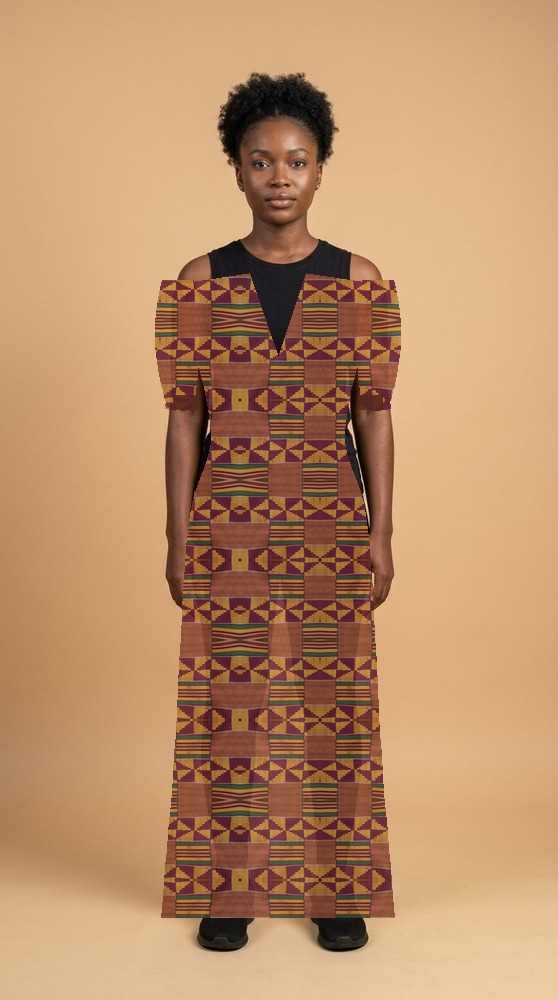
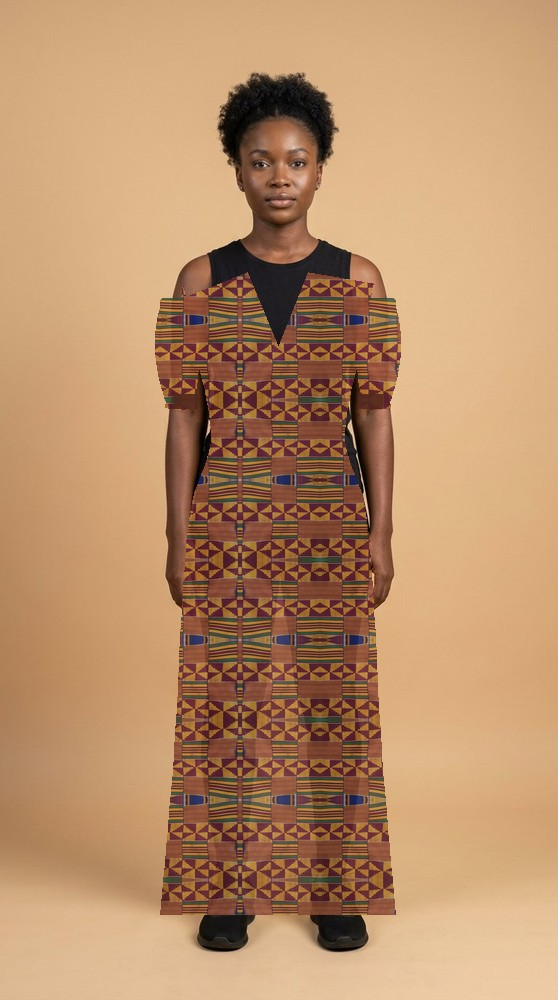
Garment: close the shoulder line, tame the neck opening, rebuild release v1.0.3
- The bodice outline started at the neck edge, so the opening spanned the whole
  shoulder line and the bare photo showed through the shoulders. It now runs shoulder
  tip -> neck edge -> opening -> neck edge -> shoulder tip, with the tip a little below
  the widest point (real cloth droops; a dead-flat line reads as cardboard).
- Sleeve caps start on that same seam, so cap and bodice meet instead of crossing and
  leaving a notch.
- Openings were 2-3 px wide at the old widths (the notch was drawn twice). Every
  neckline now has a real opening: HIGH .24/.014, ROUND .34/.05, V .32/.085, BOAT
  .44/.02, OFF_SHOULDER .50/.03 of the shoulder width.
- Same numbers in vton_local.py; BodyFitTest measures the opening between the neck edges.
- Version 1.0.3 build, docs and proof images refreshed.

Changed region(s): [[0.2742, 0.279, 0.7312, 0.93]]

diff --git a/FabricFit/app/src/main/java/com/fabricfit/app/media/garment/BodyFit.kt b/FabricFit/app/src/main/java/com/fabricfit/app/media/garment/BodyFit.kt
@@ -22,6 +22,12 @@ import kotlin.math.roundToInt
  */
 object BodyFit {
 
+    /**
+     * How far below the widest point the cloth settles on the deltoid: real fabric droops
+     * rather than cutting a perfect horizontal line from the shoulder tip to the neck.
+     */
+    private const val SHOULDER_JOINT_DROP = 0.030f
+
     /** Landmark measurements in source-image pixels. */
     data class Body(
         val top: Float,
@@ -156,19 +162,25 @@ object BodyFit {
         val yHem = top + ph * hemFraction
         val hem = max(hip, thigh) * flare
 
+        // Neck opening as (half-width, dip) relative to the shoulder width and body height.
+        // A neckline that spans most of the shoulder reads as an off-shoulder dress, so the
+        // deep-V and boat styles stay near a third of the shoulder width.
+        // Neck opening as (half-width, dip). It is drawn from the left neck edge across a
+        // notched opening to the right neck edge; below ~0.30 of the shoulder the two edges
+        // end up a few pixels apart and the "opening" disappears.
         val neck = when (customization.neckline) {
-            NecklineOption.VNECK, NecklineOption.V_NECK -> 0.30f to 0.095f
-            NecklineOption.HIGH -> 0.20f to 0.012f
-            NecklineOption.OFF_SHOULDER -> 0.55f to 0.030f
-            NecklineOption.BOAT -> 0.50f to 0.018f
-            NecklineOption.ROUND, NecklineOption.DEFAULT -> 0.32f to 0.060f
+            NecklineOption.VNECK, NecklineOption.V_NECK -> 0.32f to 0.085f
+            NecklineOption.HIGH -> 0.24f to 0.014f
+            NecklineOption.OFF_SHOULDER -> 0.50f to 0.030f
+            NecklineOption.BOAT -> 0.44f to 0.020f
+            NecklineOption.ROUND, NecklineOption.DEFAULT -> 0.34f to 0.050f
         }
         val neckW = shoulder * neck.first
         val neckY = yShoulder + ph * neck.second
 
         val right = smooth(
             listOf(
-                cx + shoulder to yShoulder + ph * 0.012f,
+                cx + shoulder to yShoulder + ph * SHOULDER_JOINT_DROP,
                 cx + bust to yBust,
                 cx + waist to yWaist,
                 cx + hip to yHip,
@@ -179,7 +191,11 @@ object BodyFit {
         val left = right.map { (x, y) -> (2 * cx - x) to y }.reversed()
 
         val outline = ArrayList<Pair<Float, Float>>()
-        outline.add(cx - neckW to yShoulder)
+        // The top edge runs from the left shoulder tip to the left side of the neck. Without
+        // it the neck opening spans the whole shoulder line and leaves the bare photo
+        // visible through the shoulders. (The right side already starts at the tip, so it
+        // needs no extra vertex.)
+        outline.add(cx - shoulder to yShoulder + ph * SHOULDER_JOINT_DROP)
         when (customization.neckline) {
             NecklineOption.VNECK, NecklineOption.V_NECK -> outline.add(cx to neckY)
             else -> {
@@ -206,11 +222,14 @@ object BodyFit {
         if (sleeveDrop != null) {
             val puff = if (customization.sleeve == SleeveOption.PUFF) 0.46f else 0.34f
             val taper = if (customization.sleeve == SleeveOption.PUFF) 0.30f else 0.22f
-            val yTop = yShoulder + ph * 0.008f
+            // The cap starts exactly on the bodice's shoulder seam, so the two outlines meet
+            // instead of crossing: a crossing leaves a visible sliver at the shoulder.
+            val yTop = yShoulder + ph * SHOULDER_JOINT_DROP
             val yBottom = yShoulder + ph * sleeveDrop
             for (side in intArrayOf(-1, 1)) {
                 val sx = cx + side * shoulder * 0.90f
                 val points = ArrayList<Pair<Float, Float>>()
+                points.add(cx + side * shoulder to yTop)
                 val steps = 14
                 for (i in 0..steps) {
                     val t = i.toFloat() / steps
@@ -219,6 +238,8 @@ object BodyFit {
                     val outer = shoulder * (puff * 0.55f + taper * 0.45f * bulge)
                     points.add(sx + side * outer to yTop + (yBottom - yTop) * t)
                 }
+                // Walk back up the armhole to the shoulder seam and close there, so the cap
+                // overlaps the bodice instead of leaving a notch at the shoulder joint.
                 for (i in 0..steps) {
                     val t = 1f - i.toFloat() / steps
                     val inner = shoulder * (puff * 0.02f + 0.06f * kotlin.math.sin(Math.PI * t).toFloat())

diff --git a/FabricFit/app/src/test/java/com/fabricfit/app/media/garment/BodyFitTest.kt b/FabricFit/app/src/test/java/com/fabricfit/app/media/garment/BodyFitTest.kt
@@ -173,29 +173,31 @@ class BodyFitTest {
     @Test
     fun `necklines change the size of the chest opening`() {
         val body = BodyFit.measure(mask(), width, height)!!
-        // The outline starts at the left shoulder seam, crosses the neck opening, then hits
-        // the right shoulder seam; everything after that is the body of the dress.
-        fun neckDip(neck: NecklineOption): Float {
+        // The outline runs shoulder tip -> left neck edge -> opening -> right neck edge ->
+        // shoulder tip -> body of the dress. The opening is the stretch between the two neck
+        // edges: its width and how far it dips below the shoulder both describe the neckline.
+        fun opening(neck: NecklineOption): Pair<Float, Float> {
             val outline = BodyFit.shapes(body, GarmentSilhouette.KABA, DesignCustomization(neckline = neck)).first()
-            val shoulderY = outline.first().second
-            var dip = shoulderY
-            for (point in outline.drop(1)) {
-                if (point.second > shoulderY + 1f && kotlin.math.abs(point.first - body.centre) < body.personHeight * 0.2f) {
-                    dip = maxOf(dip, point.second)
-                } else if (dip > shoulderY + 1f) {
-                    break
-                }
-            }
-            return dip
+            // [0] left shoulder tip, [1] left neck edge, ... [4] right neck edge
+            val left = outline[1]
+            val right = outline[4]
+            val dip = outline.subList(1, 5).maxOf { it.second }
+            return (right.first - left.first) to dip
         }
 
-        val high = neckDip(NecklineOption.HIGH)
-        val round = neckDip(NecklineOption.ROUND)
-        val boat = neckDip(NecklineOption.BOAT)
-        val v = neckDip(NecklineOption.VNECK)
-        // A V-neck must cut deepest and a high collar must sit highest.
-        assertTrue("high=$high round=$round boat=$boat v=$v", high < round && round < v && high < boat)
-        assertTrue("V-neck opening should be visible: $v vs round $round", v - round > body.personHeight * 0.015f)
+        val (highWidth, highDip) = opening(NecklineOption.HIGH)
+        val (roundWidth, roundDip) = opening(NecklineOption.ROUND)
+        val (boatWidth, boatDip) = opening(NecklineOption.BOAT)
+        val (vWidth, vDip) = opening(NecklineOption.VNECK)
+
+        // A high collar is the shallowest and narrowest; a V-neck cuts deepest.
+        assertTrue("high dip=$highDip round dip=$roundDip", highDip < roundDip)
+        assertTrue("round dip=$roundDip v dip=$vDip", roundDip < vDip)
+        assertTrue("v dip=$vDip should be visible", vDip - roundDip > body.personHeight * 0.015f)
+        assertTrue("high width=$highWidth should be narrower than boat=$boatWidth", highWidth < boatWidth)
+        // Every opening must be a real hole in the cloth, not a two-pixel slit.
+        assertTrue("every opening needs real width: $highWidth / $roundWidth / $vWidth",
+            minOf(highWidth, roundWidth, vWidth) > body.shoulderHalf * 0.3f)
     }
 
     @Test

diff --git a/FabricFit/tools/vton_qa/vton_local.py b/FabricFit/tools/vton_qa/vton_local.py
@@ -637,15 +637,15 @@ def fitted_garment_polys(
 
     neck_key = neckline.upper()
     if neck_key in ("V_NECK", "VNECK"):
-        neck_half, neck_dip = 0.30, 0.095
+        neck_half, neck_dip = 0.32, 0.085
     elif neck_key == "HIGH":
-        neck_half, neck_dip = 0.20, 0.012
+        neck_half, neck_dip = 0.24, 0.014
     elif neck_key == "OFF_SHOULDER":
-        neck_half, neck_dip = 0.55, 0.030
+        neck_half, neck_dip = 0.50, 0.030
     elif neck_key == "BOAT":
-        neck_half, neck_dip = 0.50, 0.018
+        neck_half, neck_dip = 0.44, 0.020
     else:  # ROUND / DEFAULT
-        neck_half, neck_dip = 0.32, 0.060
+        neck_half, neck_dip = 0.34, 0.050
 
     neck_w = shoulder * neck_half
     neck_y = y_shoulder + ph * neck_dip
@@ -677,7 +677,13 @@ def fitted_garment_polys(
         start_left = (cx - neck_w, y_shoulder)
         start_right = (cx + neck_w, y_shoulder)
 
-    outline = [start_left] + neck + [start_right] + right + left
+    # Shoulder tip -> neck edge -> opening -> neck edge -> shoulder tip -> body of the
+    # dress. The left tip segment is required: without it the opening spans the entire
+    # shoulder line and the bare photo shows through the shoulders.
+    # Fabric settles a little below the widest point of the deltoid instead of cutting a
+    # horizontal line from shoulder tip to neck.
+    shoulder_tip_left = (cx - shoulder, y_shoulder + ph * 0.030)
+    outline = [shoulder_tip_left, start_left] + neck + [start_right] + right + left
 
     panels: list[list[tuple[float, float]]] = [outline]
     trims: list[list[tuple[float, float]]] = []
@@ -689,9 +695,10 @@ def fitted_garment_polys(
         taper = 0.30 if sleeve_key == "PUFF" else 0.22
         for side in (-1, 1):
             sx = cx + side * shoulder * 0.90
-            y_top = y_shoulder + ph * 0.008
+            # Start on the bodice's shoulder seam so the outlines meet, not cross.
+            y_top = y_shoulder + ph * 0.030
             y_bot = y_shoulder + ph * drop
-            pts = []
+            pts = [(cx + side * shoulder, y_top)]
             # shoulder seam -> rounded outer cap -> cuff -> armhole
             n = 18
             for i in range(n + 1):

diff --git a/FabricFit/tools/vton_qa/README.md b/FabricFit/tools/vton_qa/README.md
@@ -75,7 +75,7 @@ The CI release artifacts are published on GitHub Releases, so there is nothing t
    <https://github.com/Jacinth-19/fabricfit-app/releases/latest> and download the `.apk`.
    (These are demo-signed test builds — fine to sideload, not for Play.)
 2. Allow installs from your browser when Android asks.
-3. Open FabricFit → **FitRoom** → **Use sample model** (the bundled Ghanaian model) →
+3. Open FabricFit → **FitRoom** → **Sample model (Ghanaian)** →
    **Use kente bought online** (the cloth swatch) → pick a design → **Apply fabric**.
 
 The app never sends the photos anywhere; airplane mode works.
@@ -103,20 +103,38 @@ bash tools/vton_qa/pull_from_phone.sh        # copies the images to tools/vton_q
 You get `tryon_result.jpg`, `person_input.jpg`, `fabric_swatch.jpg`, `person_mask.png`
 and `report.txt` (device model, segmentation time, coverage %, file size).
 
-CI can run the same thing: push a commit whose message contains `[tryon-e2e]`, or run the
-**build** workflow manually — the `tryon-e2e` job uploads the images as
-`fabricfit-tryon-e2e`.
+CI runs the same thing on an x86_64 emulator: push a commit whose message contains
+`[tryon-e2e]`. `tools/qa/run_tryon_e2e.sh` drives the run, and a passing job commits what
+the device rendered to `docs/vton/device/` — no login or artifact download needed.
+
+### It has actually been run on a device
+
+`docs/vton/device/` is the emulator's own output from a passing CI run, not a laptop
+render. `report.txt` from that run:
+
+```
+device      unknown Android SDK built for x86_64 (API 33)
+segment     116ms, coverage 23.8%
+generate    150ms
+result      714x1280 JPEG
+```
+
+Images: `tryon_result.jpg` (the look), `person_input.jpg`, `person_mask.png`,
+`fabric_swatch.jpg`.
 
 ## Proof the pipeline runs
 
-`docs/vton/fitroom_journey.jpg` is one run of `--demo`: the bundled Ghanaian model, the
-kente dress sourced online, the real cloth swatch and the FitRoom result.
+| Image | What it shows |
+| --- | --- |
+| `docs/vton/fitroom_journey.jpg` | Left: the bundled Ghanaian model. Right: the FitRoom look on her. One `--demo` run. |
+| `docs/vton/fit_comparison.jpg` | Person → cloth → segmentation mask → result, in one strip |
+| `docs/vton/tryon_app_baseline.jpg` | The old fixed 20–80 % box: a strip of cloth floating on the chest |
+| `docs/vton/device/` | The same pair rendered **on an Android emulator** by the shipping code |
 
-`docs/vton/fit_comparison.jpg` is the same inputs through the old fixed-box geometry and
-through the body-fitted outline.
-
-Both were produced by `vton_local.py` on this repo with the bundled TFLite models —
-the exact numbers are reproduced in `BodyFitParityTest`.
+The laptop images come from `vton_local.py` with the bundled TFLite models; the
+`device/` images come from `TryOnDeviceE2ETest` running the app's own
+`PersonSegmenter` and `DemoLookGenerator`. `BodyFitParityTest` pins the numbers the two
+implementations must agree on.
 
 ## The demo inputs
 
